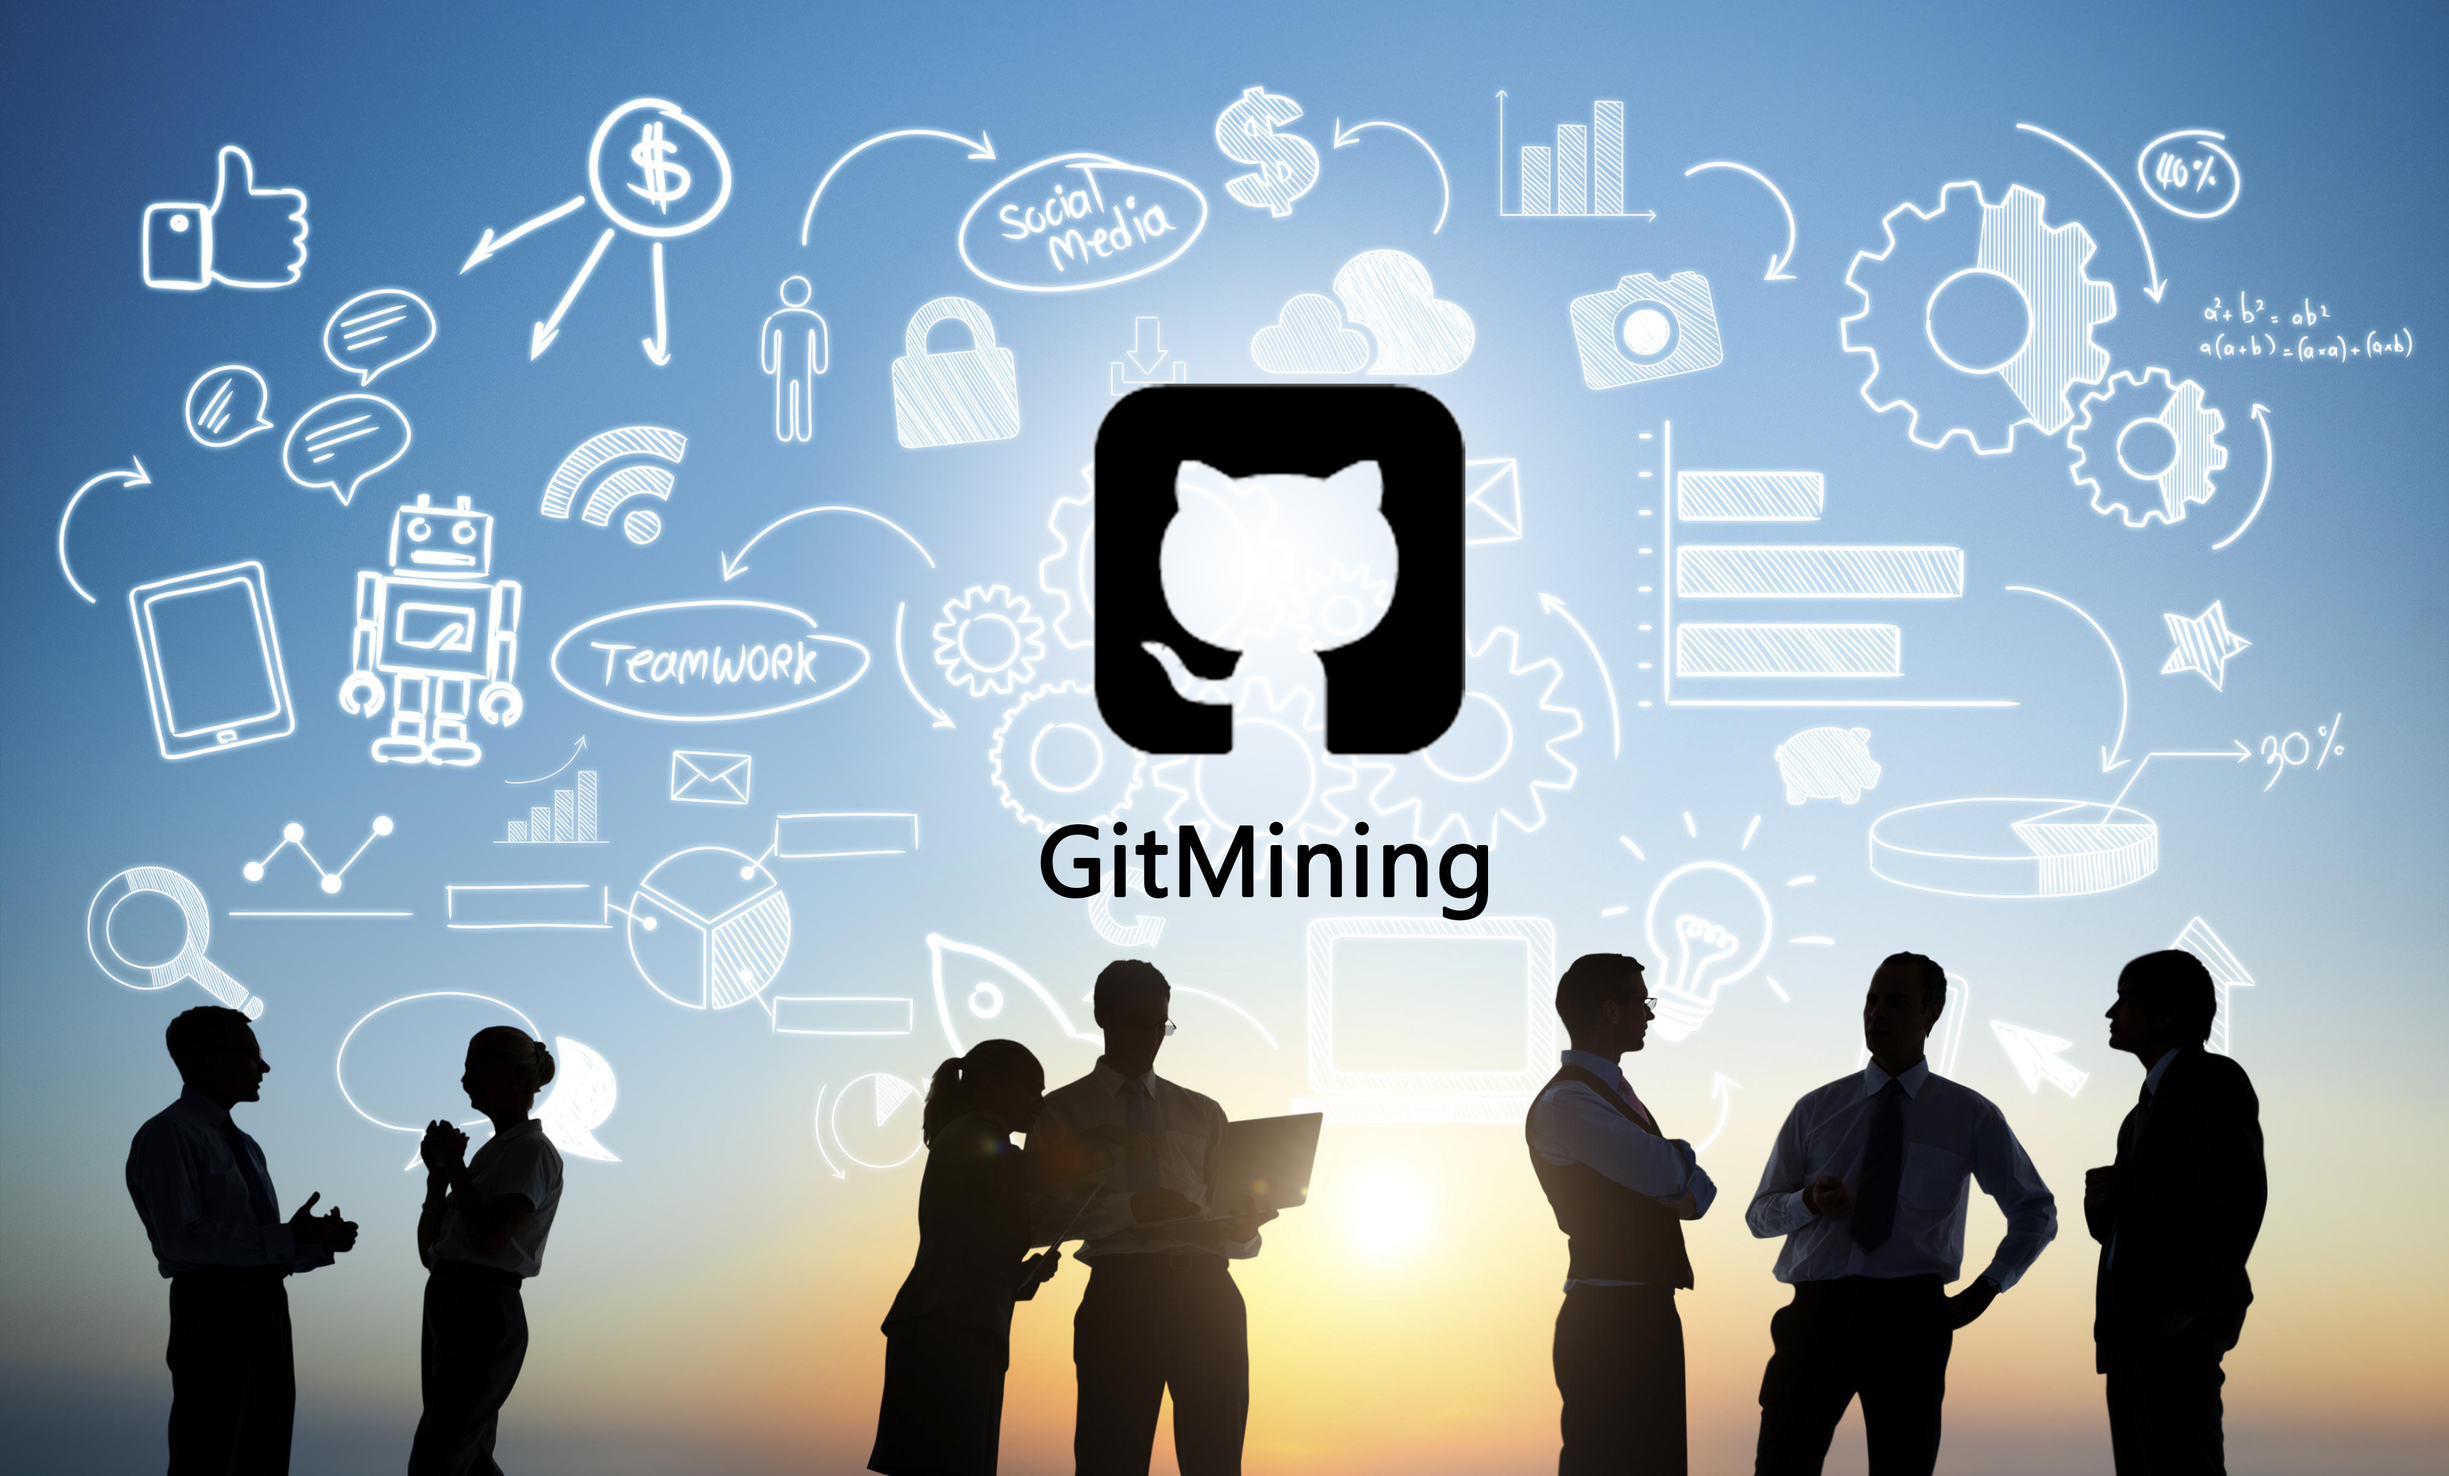
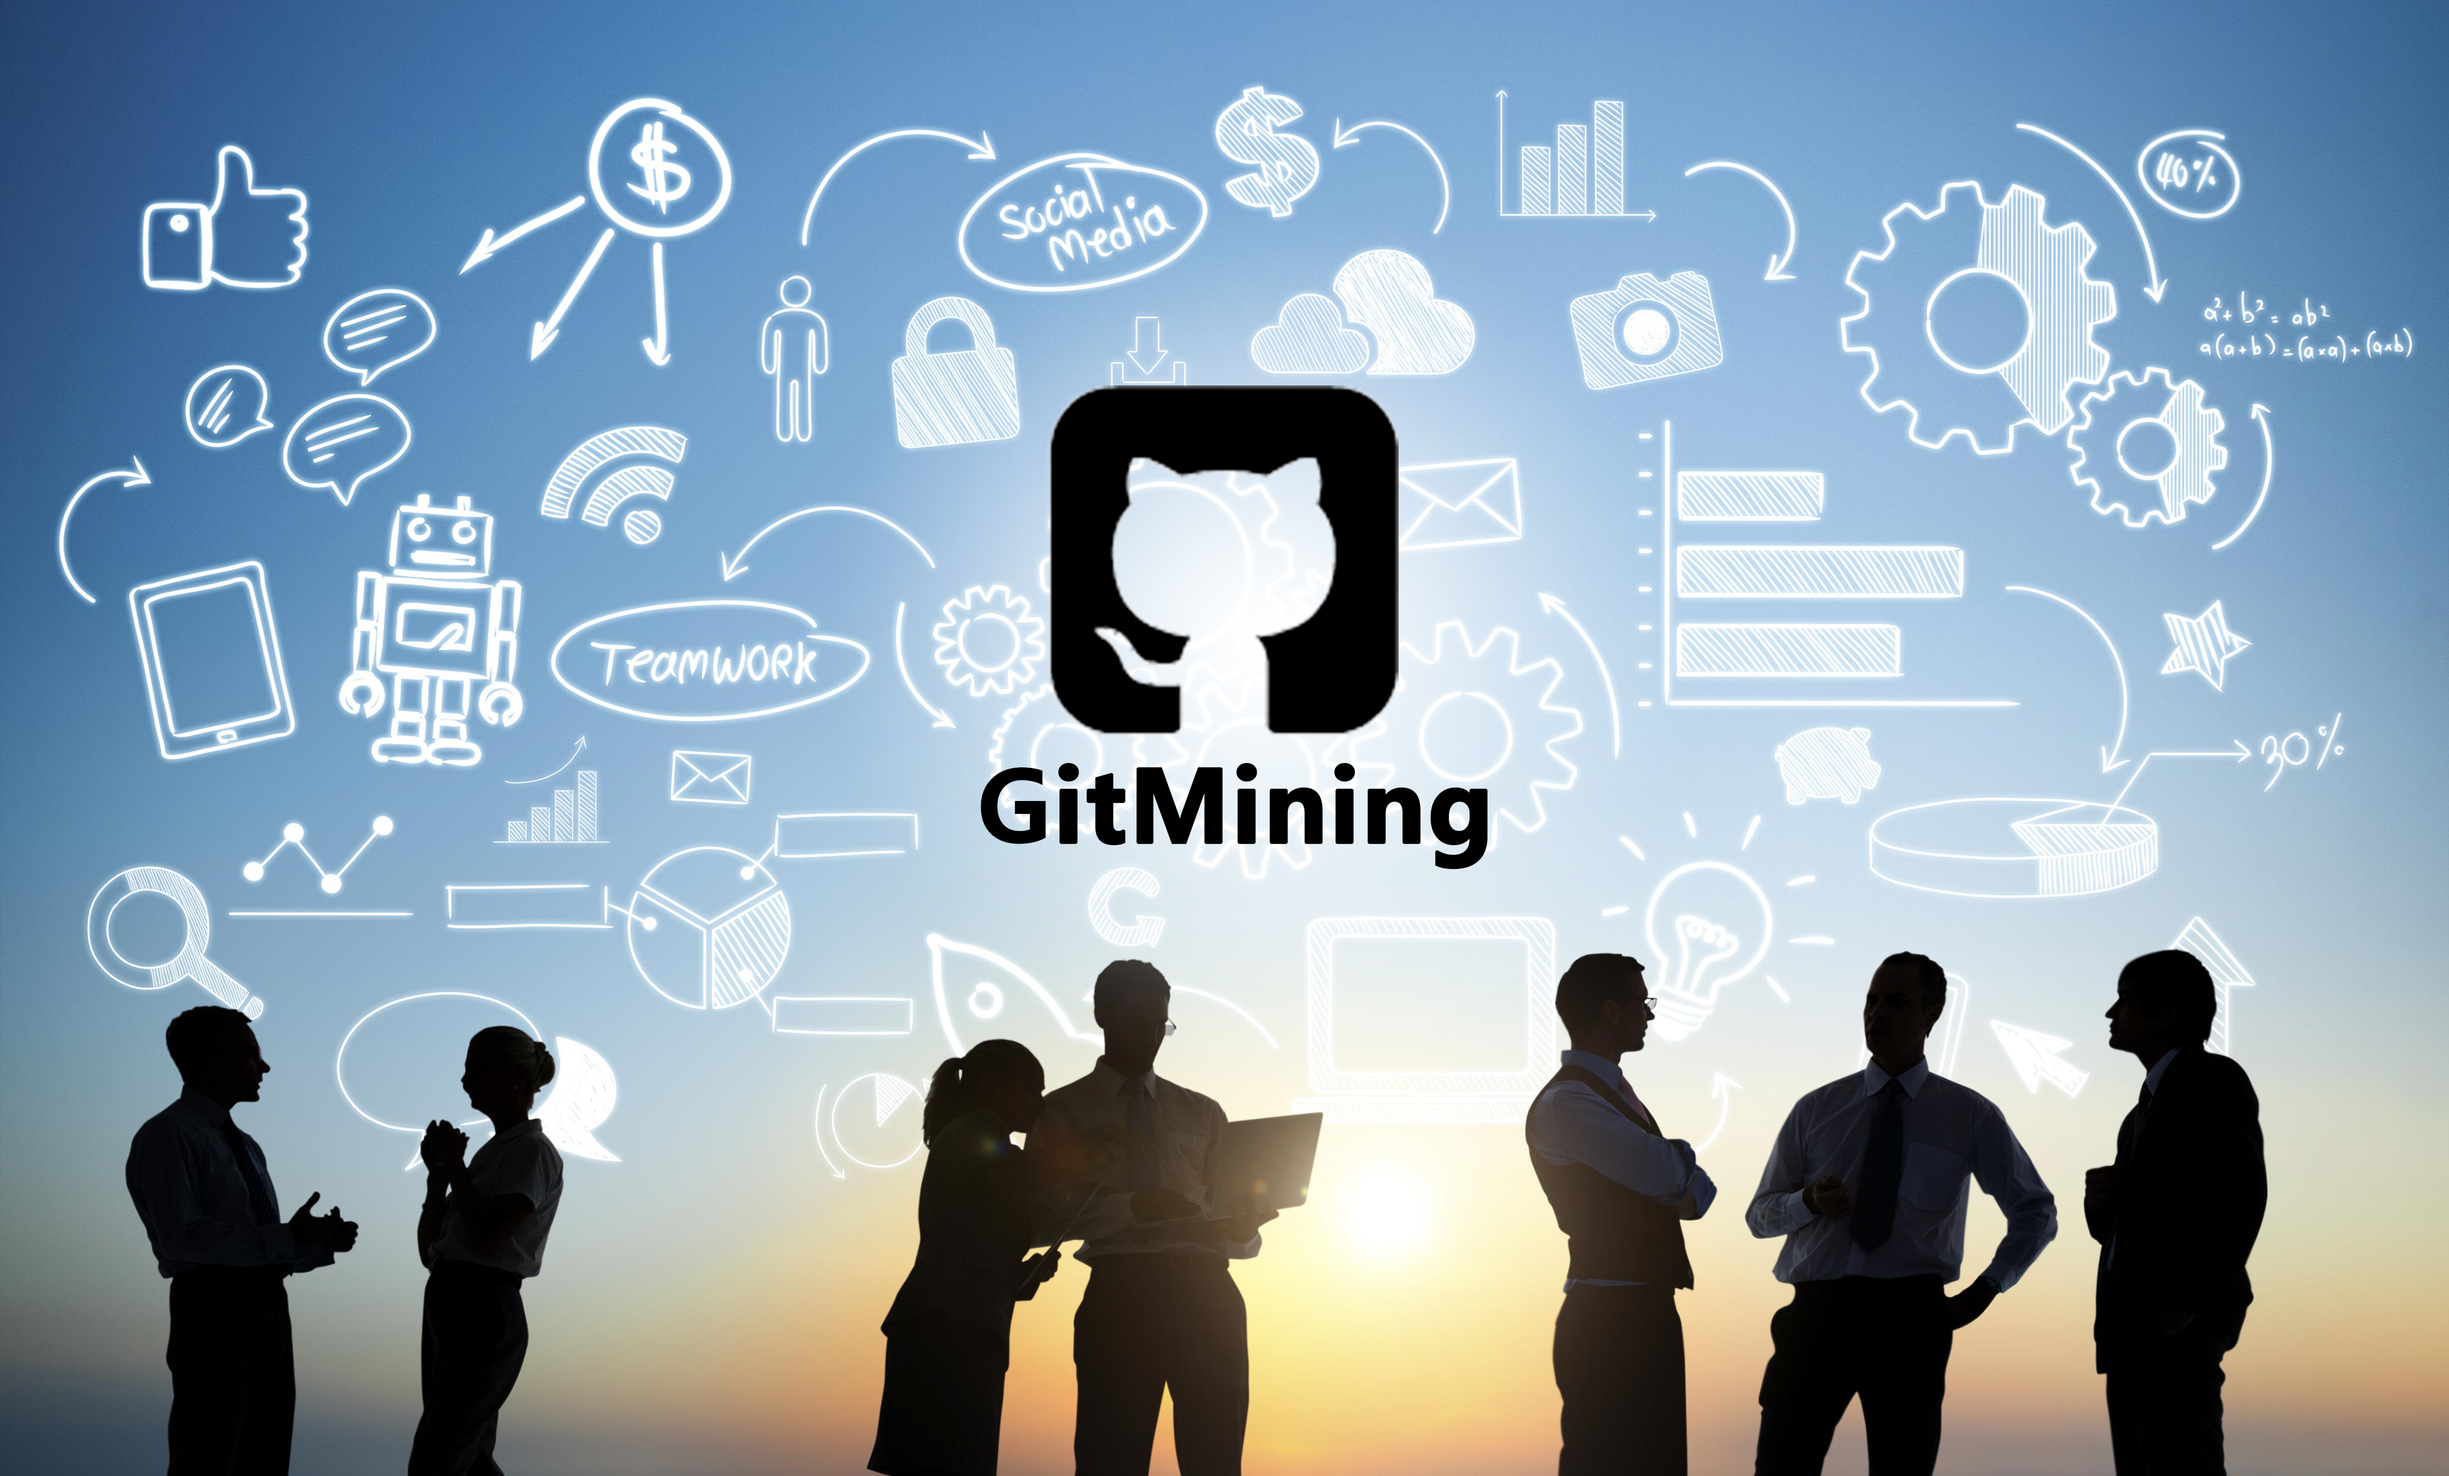
Development:图片更改和按钮位置更改，按钮大小样式看不到等一下！

Changed region(s): [[0.3749, 0.1555, 0.6248, 0.6219]]

diff --git a/project/gitmining/src/main/java/presentation/ui/main/MainController.java b/project/gitmining/src/main/java/presentation/ui/main/MainController.java
@@ -68,7 +68,7 @@ public class MainController extends Application implements Observer{
 	}
 
 	private void loadImgFile() {
-		String imageFilename ="userSearchBackground.jpg";
+		String imageFilename ="userSearchBackground_2.jpg";
 		try {
 			bgImage = ImageFactory.getImageByFileName(imageFilename);
 		} catch (MalformedURLException e) {

diff --git a/project/gitmining/src/main/java/presentation/ui/search/RepositorySearchController.java b/project/gitmining/src/main/java/presentation/ui/search/RepositorySearchController.java
@@ -53,7 +53,7 @@ public class RepositorySearchController{
 	
 	private Image loadImgFile() {
 		Image tempImage = null;
-		String imageFilename ="searchBackground.jpg";
+		String imageFilename ="searchBackground_2.jpg";
 		try {
 			tempImage = ImageFactory.getImageByFileName(imageFilename);
 		} catch (MalformedURLException e) {
